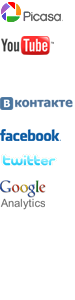
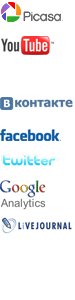
livejournal

Changed region(s): [[0.48, 0.72, 0.96, 0.78], [0.24, 0.72, 0.4533, 0.78], [0.0267, 0.72, 0.2133, 0.78]]

diff --git a/app/assets/stylesheets/author.css.scss b/app/assets/stylesheets/author.css.scss
@@ -813,6 +813,11 @@ div {
     background-position: 0 -180px;
     width: 58px;
   }
+    &.livejournal {
+    background-position: 0 -210px;
+    width: 75px;
+  }
+
 }
 .prefs {
   border: none;
